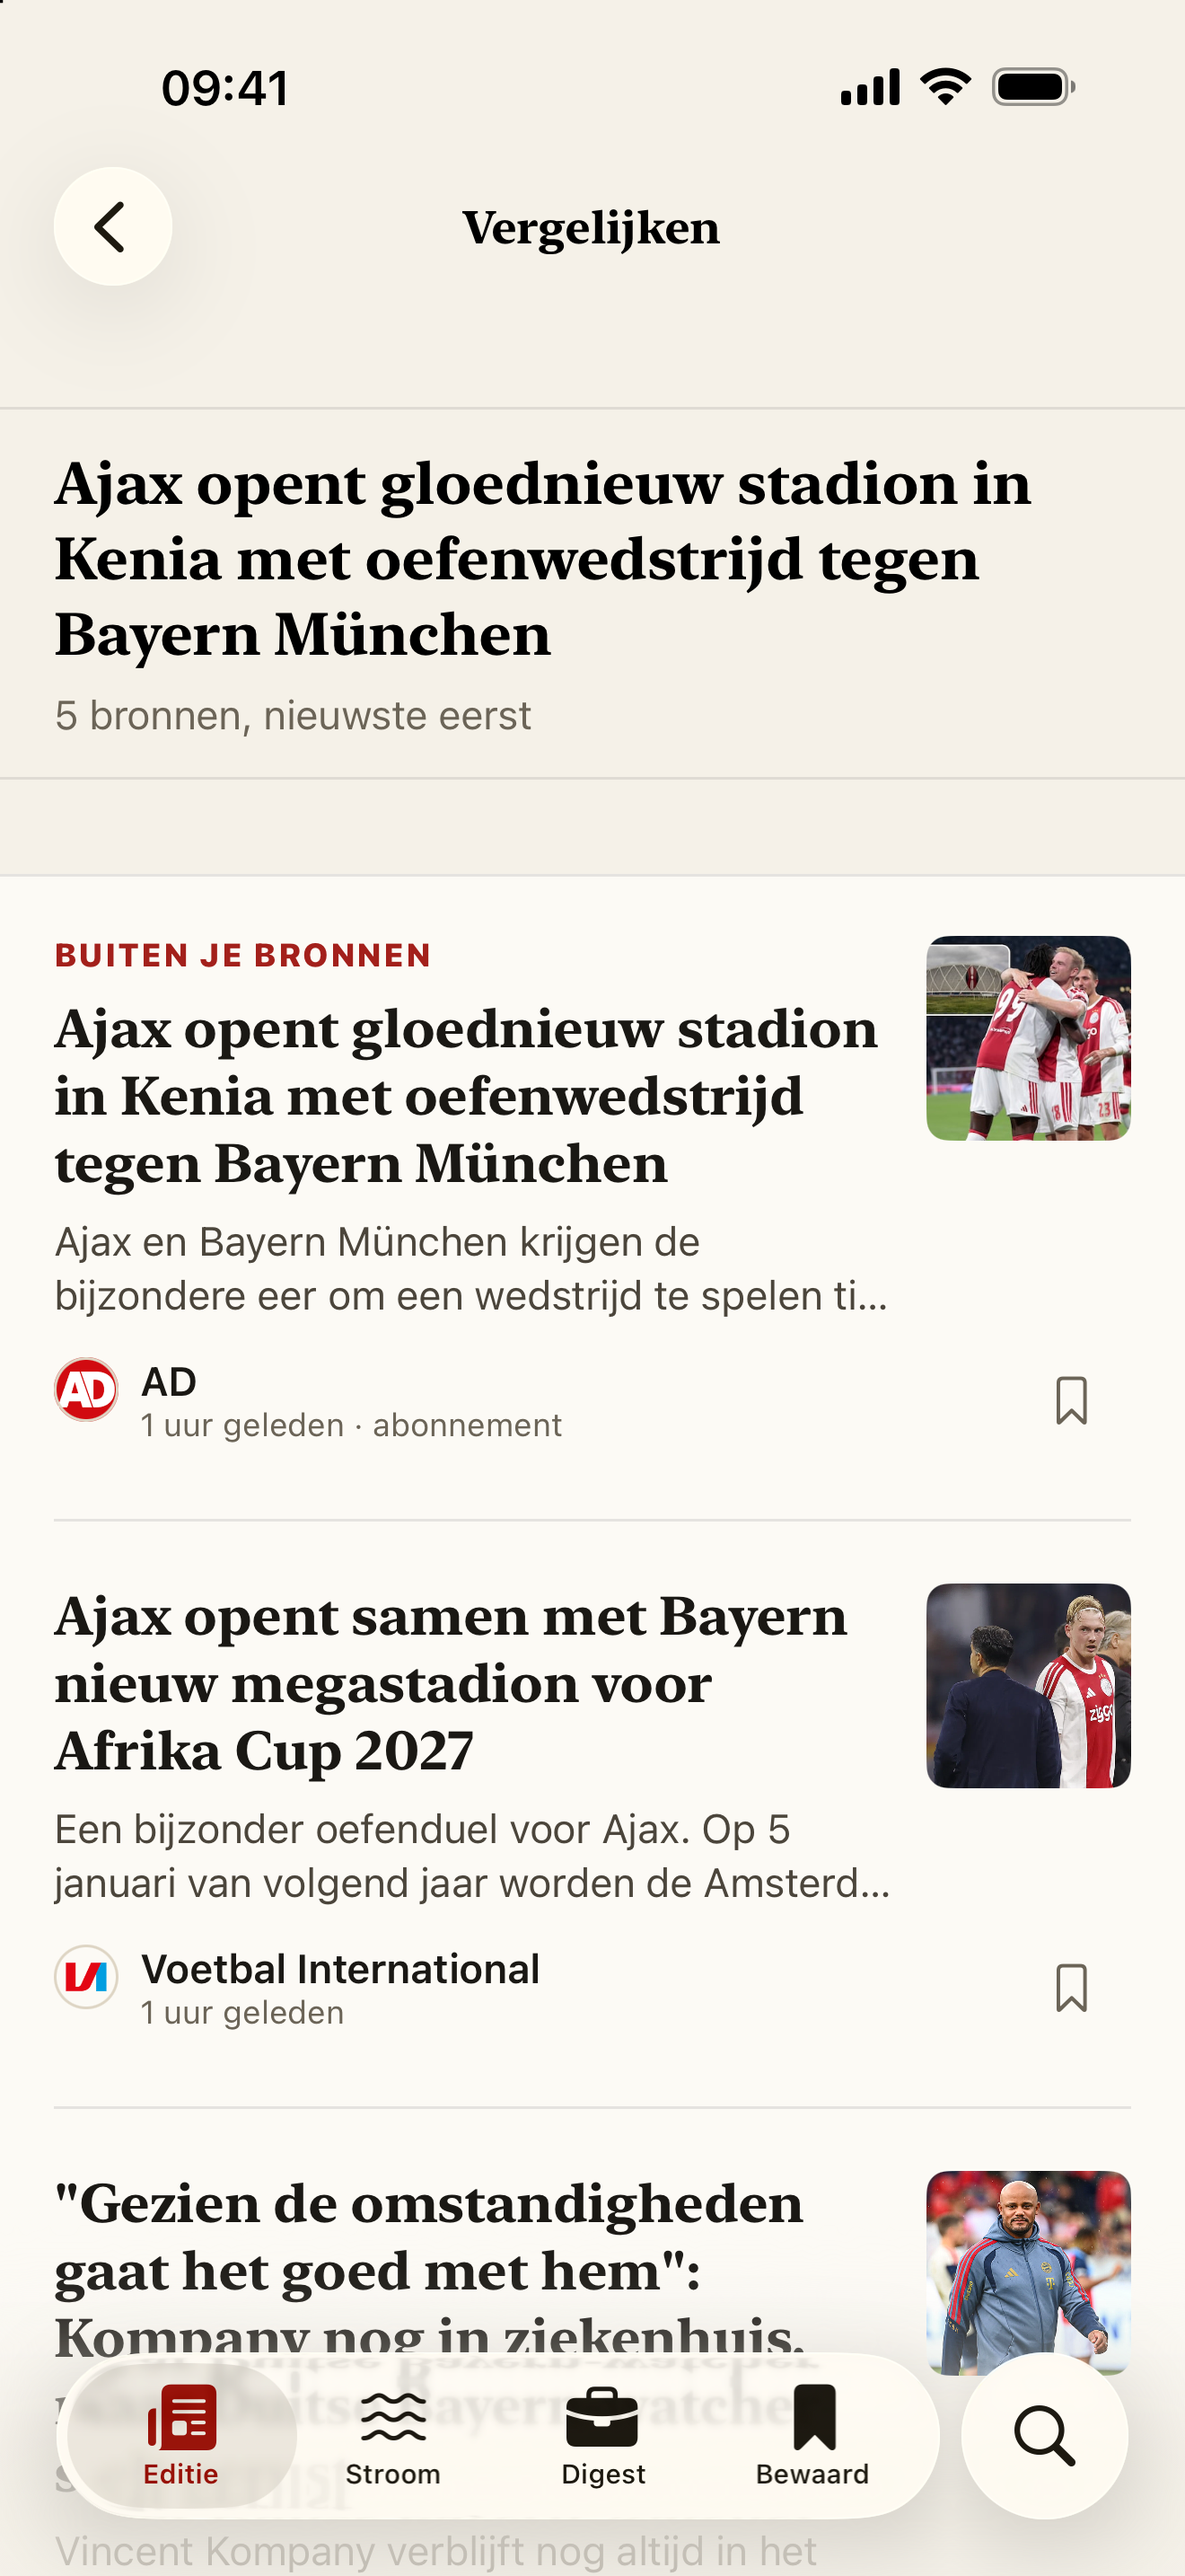
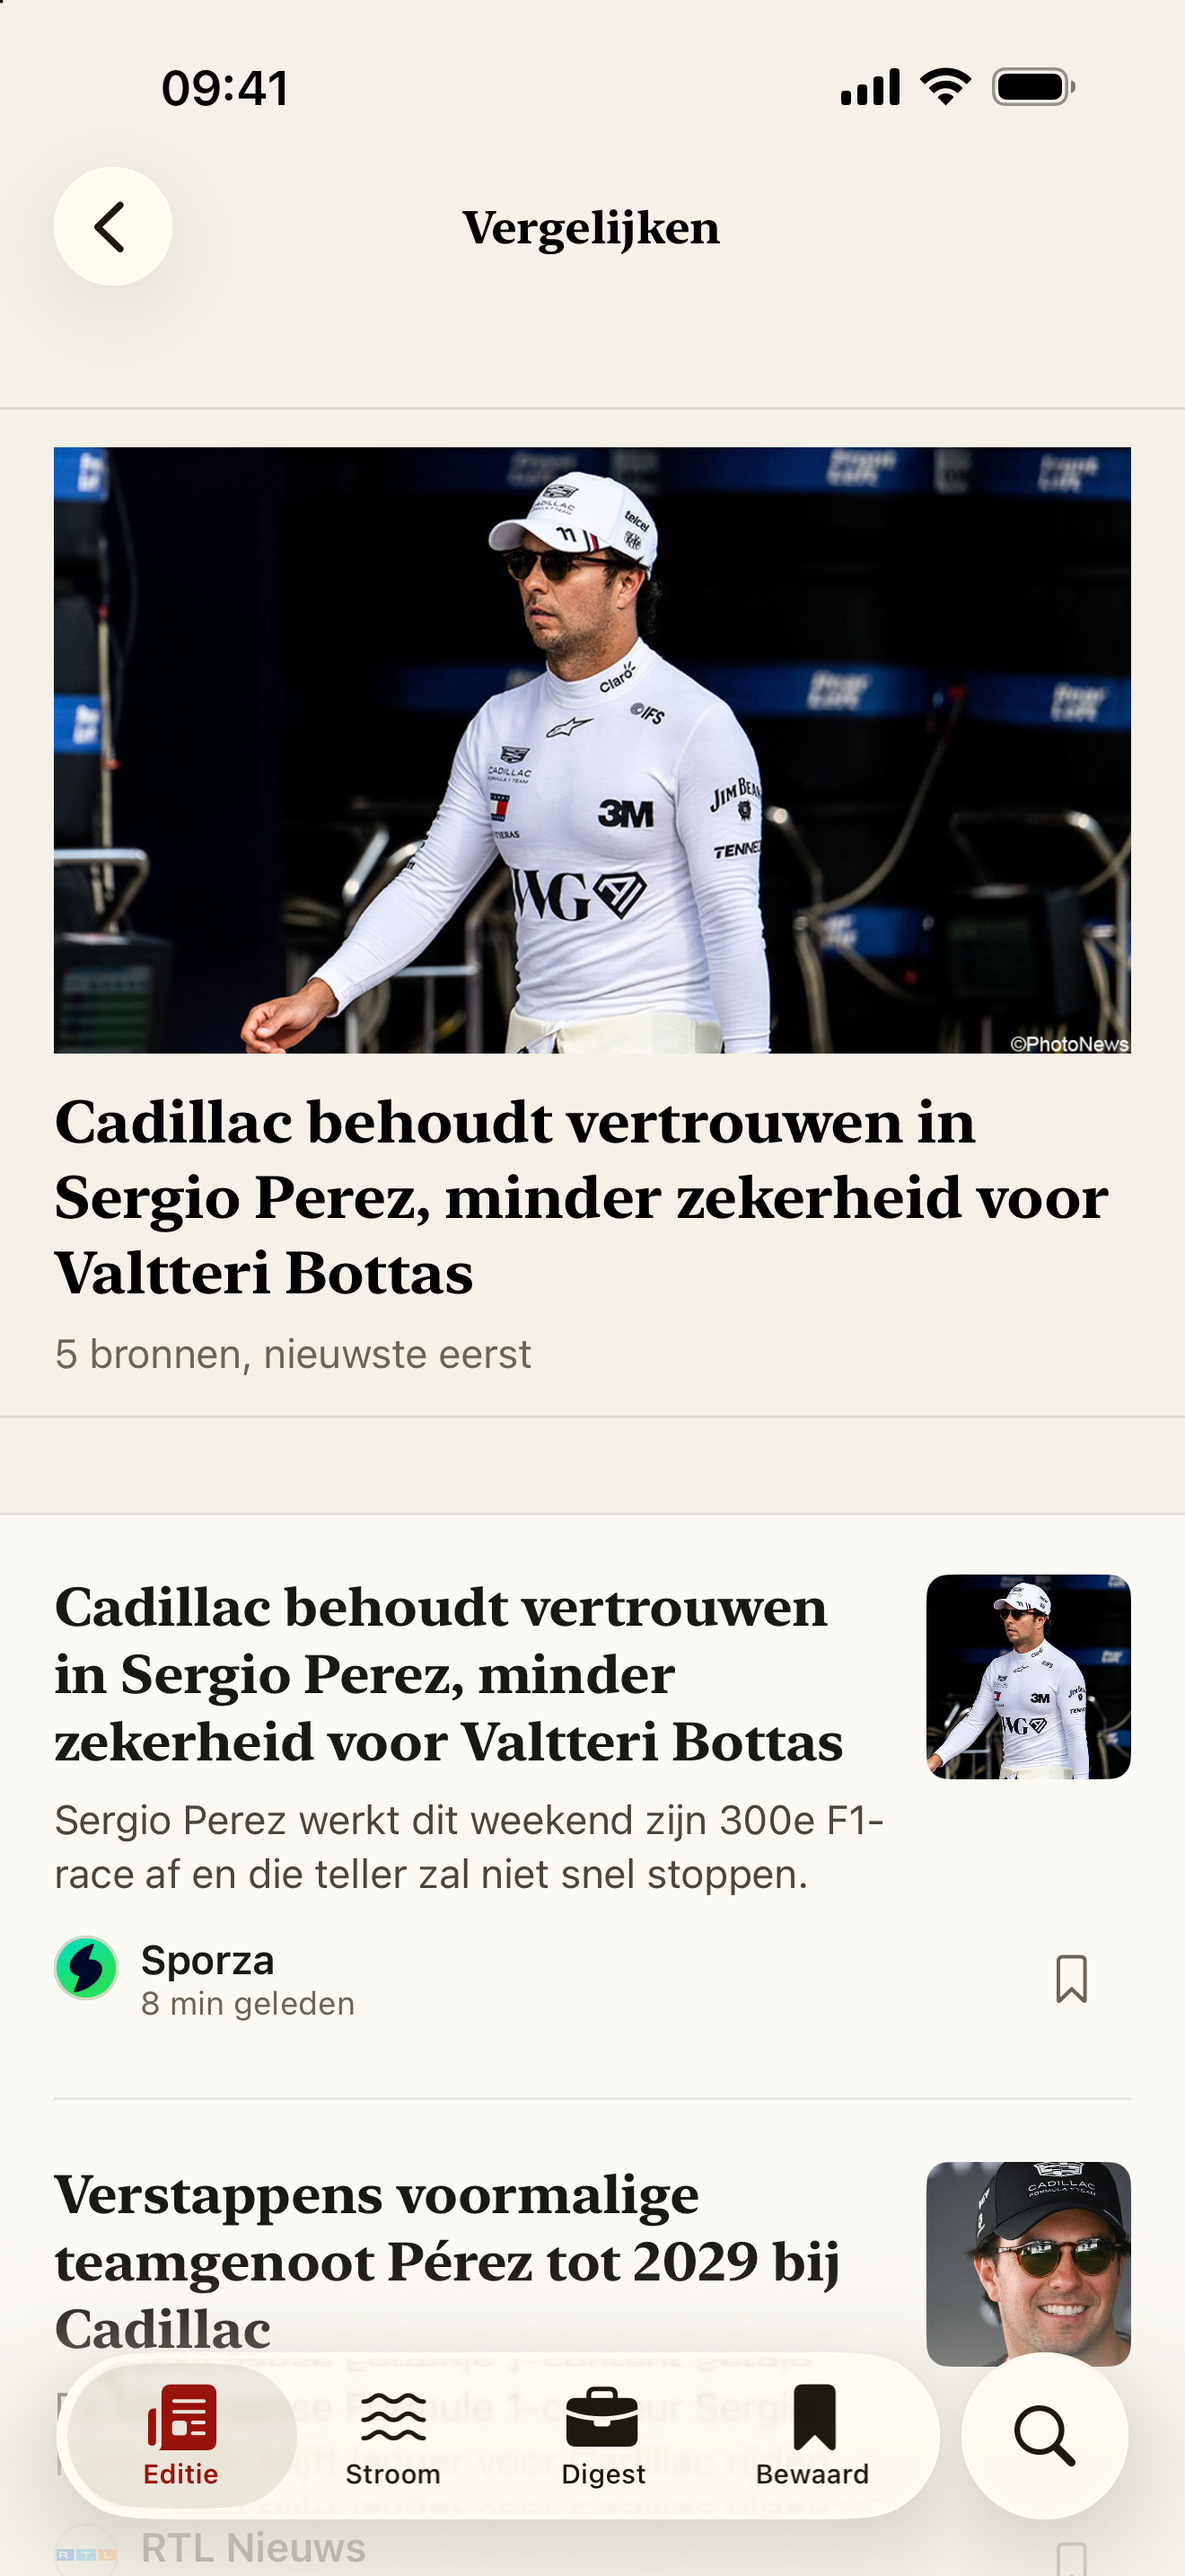
App Store-beelden: iPhone 6,3" (1206×2622), iPad-opname op 11" in 13"-formaat, beeld bij Vergelijken, Digest begint met Digital Design; lezer haalt promotieblokken met tussenkop weg

diff --git a/ios/Hoot/Reader/ArticleLoader.swift b/ios/Hoot/Reader/ArticleLoader.swift
@@ -179,6 +179,16 @@ final class ArticleLoader: NSObject, WKNavigationDelegate, WKUIDelegate {
             var nt = next ? (next.textContent || '').replace(/\s+/g, ' ').trim() : '';
             if (img && nt && nt.length <= 40 && NAME.test(nt)) { (img.closest('figure') || img).remove(); next.remove(); }
           });
+          // Een promotieblok van de site zelf met een tussenkop ("Maak NOS jouw voorkeursbron in
+          // Google", "Volg ons op …"): de kop én de alinea eronder weg.
+          box.querySelectorAll('h2, h3').forEach(function (h) {
+            var t = (h.textContent || '').replace(/\s+/g, ' ').trim();
+            if (t.length < 120 && /voorkeursbron|nieuwsbrief|newsletter|^volg (ons|de|het)|download (de|onze) app|^lees (ook|meer)/i.test(t)) {
+              var next = h.nextElementSibling;
+              if (next && next.matches('p') && (next.textContent || '').length < 400) next.remove();
+              h.remove();
+            }
+          });
           box.querySelectorAll('ul, ol').forEach(function (l) {
             var t = (l.textContent || '').replace(/\s+/g, ' ').trim();
             if (t.length < 200 && (l.querySelectorAll('a').length > 0 || t.length < 40)) l.remove();

diff --git a/ios/Hoot/Views/EditionView.swift b/ios/Hoot/Views/EditionView.swift
@@ -166,7 +166,12 @@ struct StoryView: View {
             // uitgevers, niet artikelen; drie stukken van één krant zijn geen drie bevestigingen.
             Section {
                 VStack(alignment: .leading, spacing: Space.s2) {
-                    if let lead = items.first(where: { $0.id == story.leadId }) ?? items.first {
+                    let lead = items.first(where: { $0.id == story.leadId }) ?? items.first
+                    // Een beeld bij het verhaal: dat van het hoofdbericht, of anders het eerste scherpe.
+                    if store.showsImage(lead: true), let image = ([lead].compactMap { $0 } + items).lazy.compactMap(\.image).first(where: { ImageURL.fitsHero($0) }) {
+                        FramedImage(url: ImageURL.url(image, .large), ratio: 16 / 9).padding(.bottom, Space.s1)
+                    }
+                    if let lead {
                         Text(lead.title).font(Theme.headline(.title2)).fixedSize(horizontal: false, vertical: true)
                     }
                     if !items.isEmpty {
